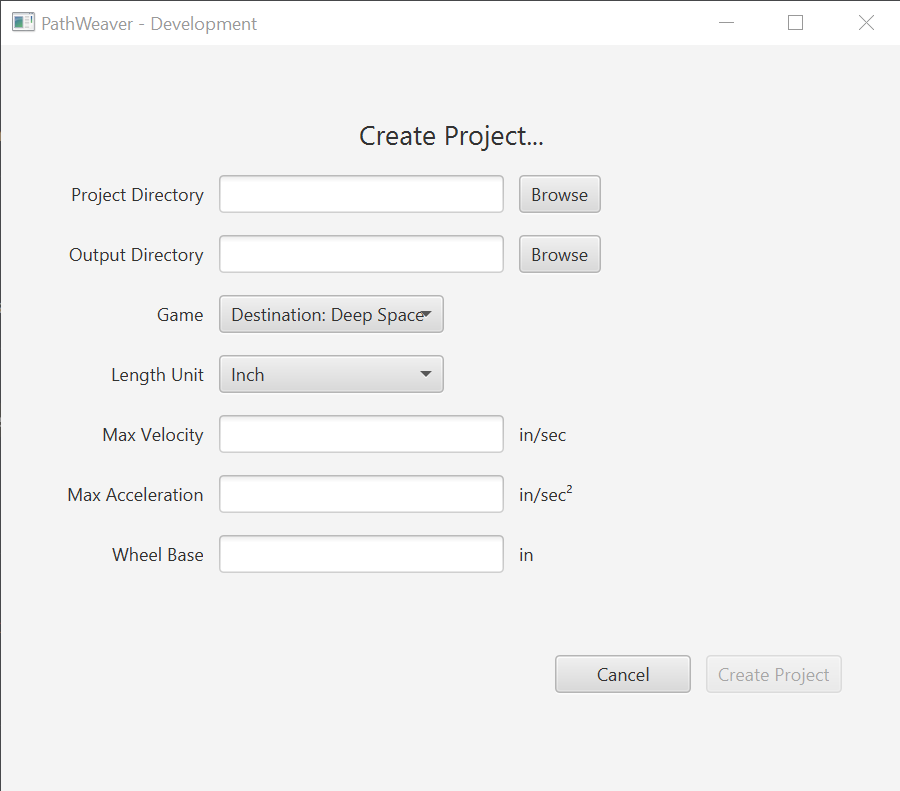
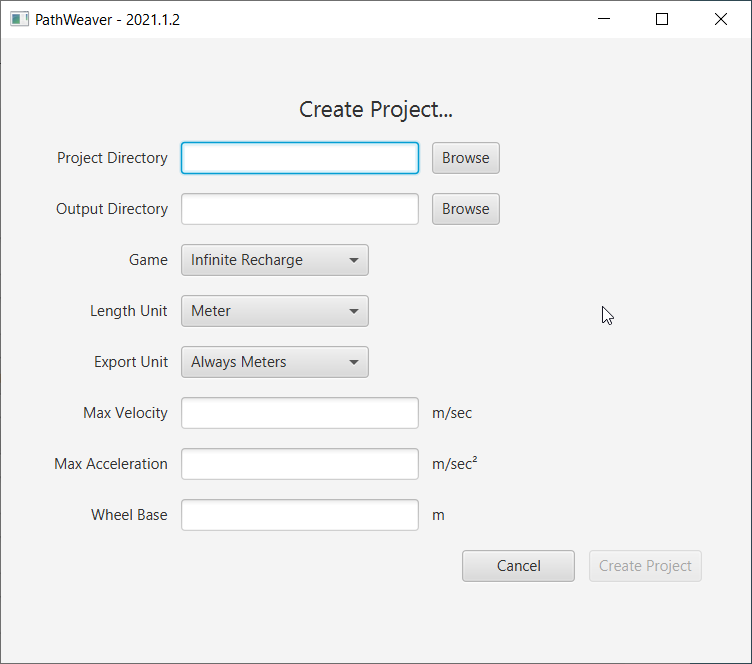
Add description of Pathweaver Export Units

diff --git a/source/docs/software/wpilib-tools/pathweaver/creating-pathweaver-project.rst b/source/docs/software/wpilib-tools/pathweaver/creating-pathweaver-project.rst
@@ -24,7 +24,9 @@ To create a PathWeaver project, click on "Create project" and then fill out the 
 
 **Game:** The game (which FRC\ |reg| game is being used) will cause the correct field image overlay to be used. You can also create your own field images and the procedure will be described later in this series.
 
-**Length Unit:** The units to be used in describing your robot and for the field measurements when visualizing trajectories using PathWeaver. It's best to use units of meters, as this is what is recommended when following WPILib trajectories.
+**Length Unit:** The units to be used in describing your robot and for the field measurements when visualizing trajectories using PathWeaver.
+
+**Export Unit:** The units to be used when exporting the paths and waypoints. If you are planning to use WPILib Trajectories, then you should choose :guilabel:`Always Meters`. Choosing :guilabel:`Same as Project` will export in the same units as :guilabel:`Length Unit` above.
 
 **Max Velocity:** The max speed of the robot for trajectory tracking. This does not need to be the maximum attainable speed of the robot, but just the max speed that you want to run trajectories at.
 
